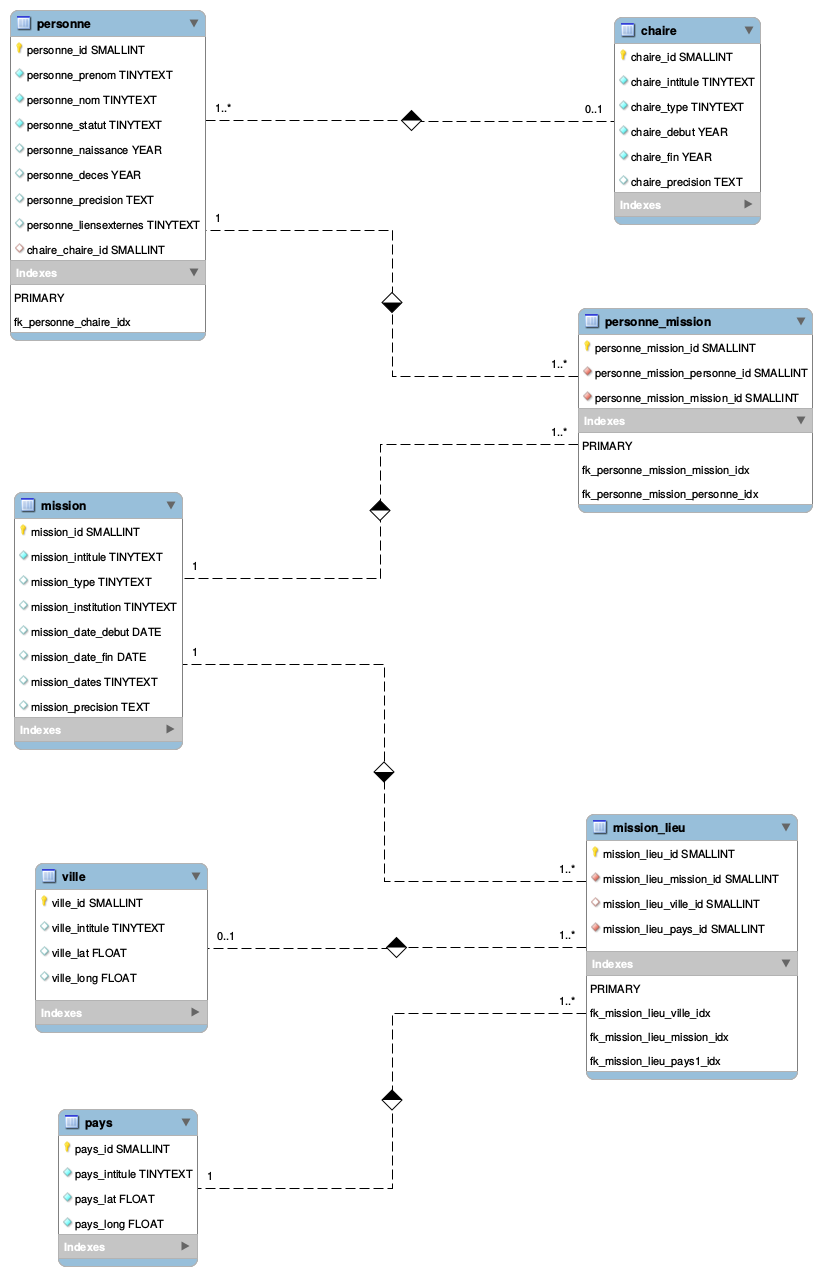
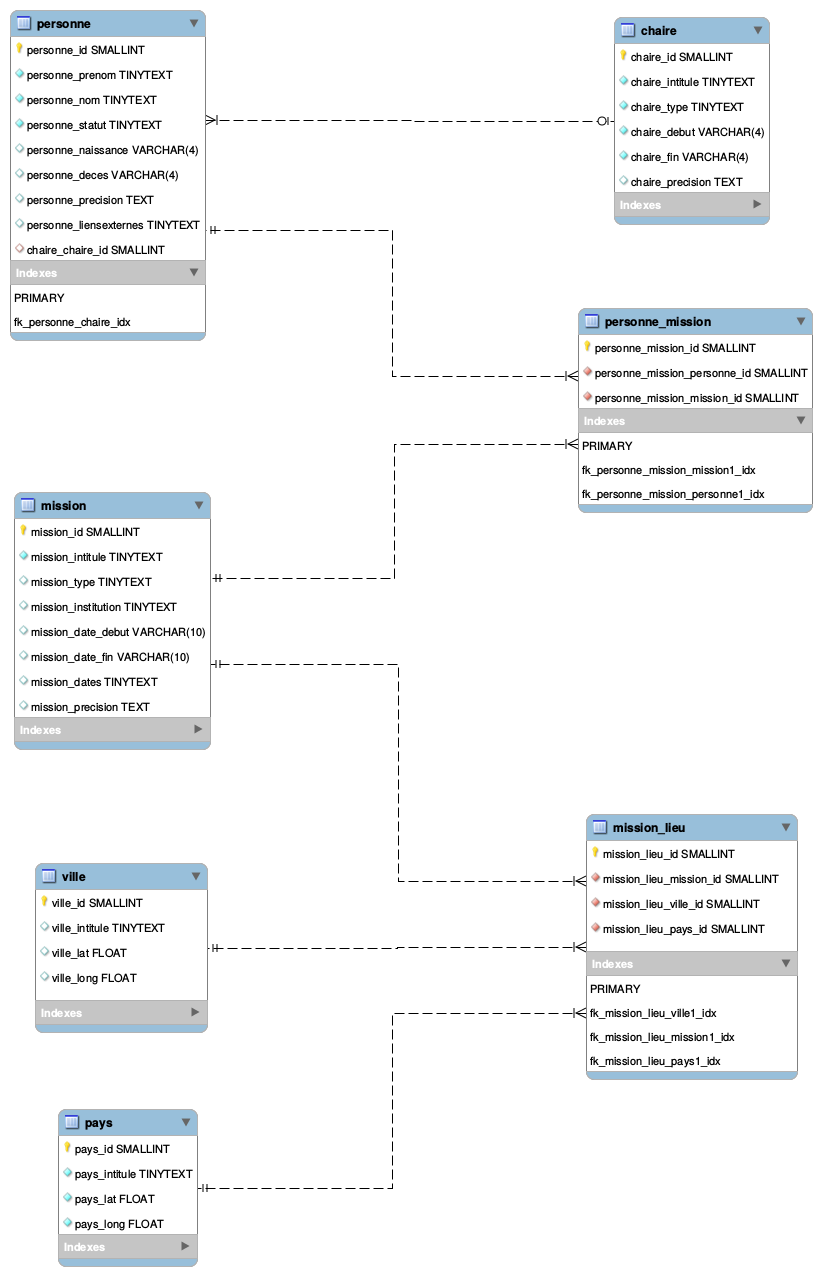
Revert "Modele db"

diff --git a/cdfgeo/modeles/donnees.py b/cdfgeo/modeles/donnees.py
@@ -11,8 +11,8 @@ class Chaire(db.Model):
     chaire_id = db.Column(db.Integer, unique=True, nullable=False, primary_key=True)
     chaire_intitule = db.Column(db.Text)
     chaire_type = db.Column(db.Text)
-    chaire_debut = db.Column(db.Date)
-    chaire_fin = db.Column(db.Date)
+    chaire_debut = db.Column(db.String(4))
+    chaire_fin = db.Column(db.String(4))
     chaire_precision = db.Column(db.Text)
     # Jointure
     personnes = db.relationship("Personne", uselist=False, back_populates="chaire")
@@ -28,8 +28,8 @@ class Personne(db.Model):
     personne_prenom = db.Column(db.Text)
     personne_nom = db.Column(db.Text)
     personne_statut = db.Column(db.Text)
-    personne_naissance = db.Column(db.Date)
-    personne_deces = db.Column(db.Date)
+    personne_naissance = db.Column(db.String(4))
+    personne_deces = db.Column(db.String(4))
     personne_precision = db.Column(db.Text)
     personne_liensexternes = db.Column(db.Text)
     chaire_chaire_id = db.Column(db.Integer, db.ForeignKey('chaire.chaire_id'))
@@ -97,8 +97,8 @@ class Mission(db.Model):
     mission_intitule = db.Column(db.Text)
     mission_type = db.Column(db.Text)
     mission_institution = db.Column(db.Text)
-    mission_date_debut = db.Column(db.Date)
-    mission_date_fin = db.Column(db.Date)
+    mission_date_debut = db.Column(db.String(10))
+    mission_date_fin = db.Column(db.String(10))
     mission_dates = db.Column(db.Text)
     mission_precision = db.Column(db.Text)
     # Jointures
